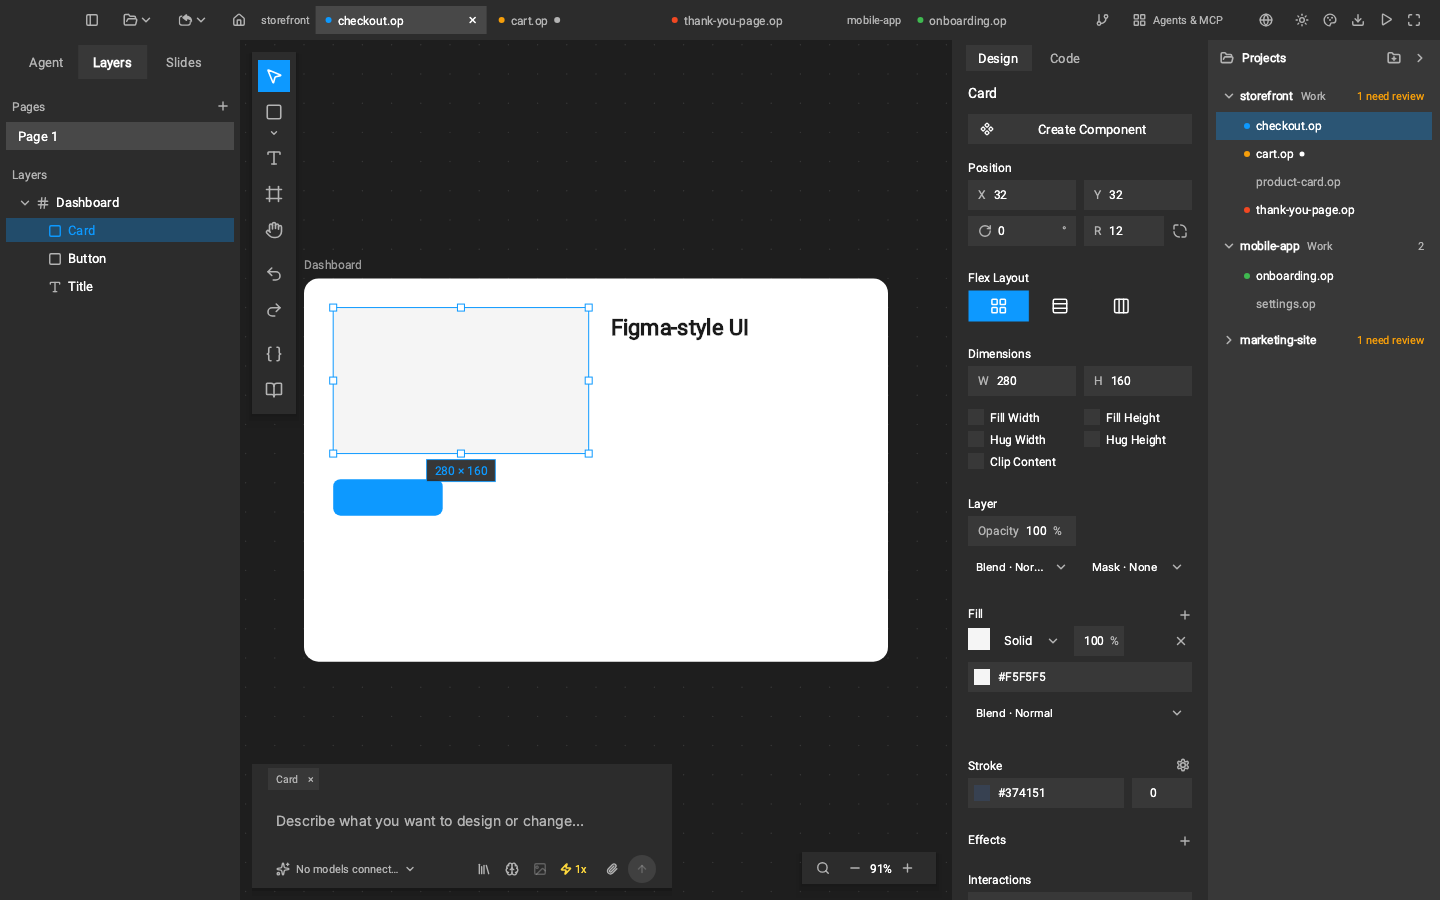
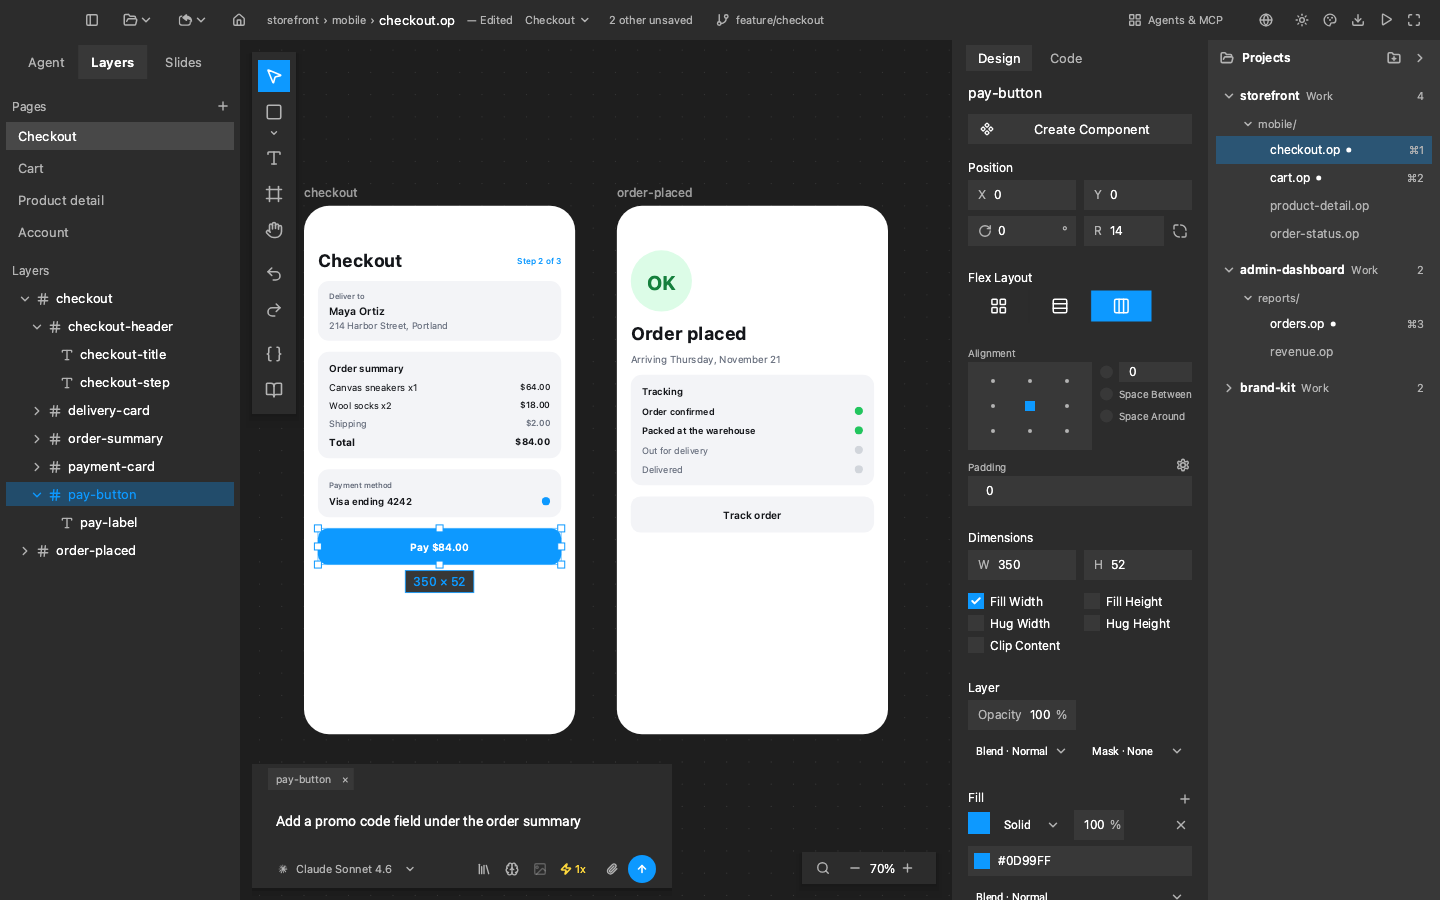
docs: refresh the README cover with the current editor
A headless render of the current UI replaces the old cover that still showed the tab strip; a proof test regenerates the scene.

diff --git a/crates/op-host-native/src/widget_host/ui3_proof_cover_tests.rs b/crates/op-host-native/src/widget_host/ui3_proof_cover_tests.rs
@@ -1,0 +1,370 @@
+//! Proof scene for the README cover: `99-cover-dark` (`OP_PROOF_DIR`).
+//!
+//! One 1440x900 dark frame of the whole editor: the Layers rail with its page
+//! list, a small mobile checkout design built from real nodes, the Design
+//! panel for a selected button, the Projects dock with open-file marks, the
+//! info bar and the floating chat composer. `scripts/generate-brand-assets.py
+//! --cover` turns the PNG into `screenshot/op-cover.png`.
+//!
+//! Windows-gated like the other tests that solve layout.
+
+#![cfg(all(test, not(target_os = "windows")))]
+
+use super::super::ui3_proof::{editor_host, render_probes, PROOF_H, PROOF_W};
+use crate::widget_host::WidgetHostNative;
+use op_editor_core::chat::{AgentProvider, ModelEntry};
+use op_editor_core::{
+    DocumentId, DocumentTabStatus, DocumentTabView, EditorState, LeftPanelTab, NodeId,
+    ProjectFileKind, ProjectFileView, ProjectView, ThemeMode,
+};
+use serde_json::{json, Value};
+
+const INK: &str = "#14161A";
+const MUTED: &str = "#6B7280";
+const SURFACE: &str = "#F3F4F7";
+const ACCENT: &str = "#0D99FF";
+const WHITE: &str = "#FFFFFF";
+
+fn solid(color: &str) -> Value {
+    json!([{ "type": "solid", "color": color }])
+}
+
+fn text(id: &str, content: &str, size: u32, weight: u32, color: &str) -> Value {
+    json!({
+        "type": "text", "id": id, "name": id, "content": content,
+        "fontSize": size, "fontWeight": weight, "fill": solid(color),
+        "width": "fit_content", "height": "fit_content"
+    })
+}
+
+/// A horizontal row with its children spread to both ends.
+fn row(id: &str, children: Vec<Value>) -> Value {
+    json!({
+        "type": "frame", "id": id, "name": id, "layout": "horizontal",
+        "width": "fill_container", "height": "fit_content",
+        "justifyContent": "space_between", "alignItems": "center",
+        "fill": [], "children": children
+    })
+}
+
+/// A rounded vertical card.
+fn card(id: &str, gap: u32, children: Vec<Value>) -> Value {
+    json!({
+        "type": "frame", "id": id, "name": id, "layout": "vertical", "gap": gap,
+        "width": "fill_container", "height": "fit_content", "padding": 16,
+        "cornerRadius": 16, "fill": solid(SURFACE), "children": children
+    })
+}
+
+fn dot(id: &str, color: &str) -> Value {
+    json!({
+        "type": "ellipse", "id": id, "name": id, "width": 12, "height": 12,
+        "fill": solid(color)
+    })
+}
+
+fn button(id: &str, label: &str, fill: Value, label_color: &str) -> Value {
+    json!({
+        "type": "frame", "id": id, "name": id, "layout": "horizontal",
+        "width": "fill_container", "height": 52, "cornerRadius": 14,
+        "justifyContent": "center", "alignItems": "center", "fill": fill,
+        "children": [text(&format!("{}-label", id.trim_end_matches("-button")), label, 16, 600, label_color)]
+    })
+}
+
+fn phone(id: &str, x: u32, children: Vec<Value>) -> Value {
+    json!({
+        "type": "frame", "id": id, "name": id, "x": x, "y": 0,
+        "width": 390, "height": 760, "layout": "vertical", "gap": 16,
+        "padding": [64, 20, 24, 20], "cornerRadius": 36, "clipContent": true,
+        "fill": solid(WHITE), "children": children
+    })
+}
+
+fn checkout_screen() -> Value {
+    let summary = card(
+        "order-summary",
+        12,
+        vec![
+            text("summary-title", "Order summary", 15, 600, INK),
+            row(
+                "line-sneakers",
+                vec![
+                    text("sneakers-name", "Canvas sneakers x1", 14, 400, INK),
+                    text("sneakers-price", "$64.00", 14, 500, INK),
+                ],
+            ),
+            row(
+                "line-socks",
+                vec![
+                    text("socks-name", "Wool socks x2", 14, 400, INK),
+                    text("socks-price", "$18.00", 14, 500, INK),
+                ],
+            ),
+            row(
+                "line-shipping",
+                vec![
+                    text("shipping-name", "Shipping", 14, 400, MUTED),
+                    text("shipping-price", "$2.00", 14, 500, MUTED),
+                ],
+            ),
+            row(
+                "line-total",
+                vec![
+                    text("total-name", "Total", 16, 700, INK),
+                    text("total-price", "$84.00", 16, 700, INK),
+                ],
+            ),
+        ],
+    );
+    let address = card(
+        "delivery-card",
+        6,
+        vec![
+            text("delivery-label", "Deliver to", 12, 500, MUTED),
+            text("delivery-name", "Maya Ortiz", 16, 600, INK),
+            text(
+                "delivery-street",
+                "214 Harbor Street, Portland",
+                14,
+                400,
+                MUTED,
+            ),
+        ],
+    );
+    let payment = card(
+        "payment-card",
+        10,
+        vec![
+            text("payment-label", "Payment method", 12, 500, MUTED),
+            row(
+                "payment-row",
+                vec![
+                    text("payment-card-name", "Visa ending 4242", 15, 600, INK),
+                    dot("payment-dot", ACCENT),
+                ],
+            ),
+        ],
+    );
+    phone(
+        "checkout",
+        0,
+        vec![
+            row(
+                "checkout-header",
+                vec![
+                    text("checkout-title", "Checkout", 28, 700, INK),
+                    text("checkout-step", "Step 2 of 3", 13, 500, ACCENT),
+                ],
+            ),
+            address,
+            summary,
+            payment,
+            button("pay-button", "Pay $84.00", solid(ACCENT), WHITE),
+        ],
+    )
+}
+
+fn confirmation_screen() -> Value {
+    let step = |n: &str, label: &str, done: bool| {
+        row(
+            &format!("step-{n}"),
+            vec![
+                text(
+                    &format!("step-{n}-label"),
+                    label,
+                    14,
+                    if done { 600 } else { 400 },
+                    if done { INK } else { MUTED },
+                ),
+                dot(
+                    &format!("step-{n}-dot"),
+                    if done { "#22C55E" } else { "#D1D5DB" },
+                ),
+            ],
+        )
+    };
+    phone(
+        "order-placed",
+        450,
+        vec![
+            json!({
+                "type": "frame", "id": "confirm-badge", "name": "confirm-badge",
+                "layout": "horizontal", "width": 88, "height": 88, "cornerRadius": 44,
+                "justifyContent": "center", "alignItems": "center",
+                "fill": solid("#DCFCE7"),
+                "children": [text("confirm-mark", "OK", 28, 700, "#15803D")]
+            }),
+            text("confirm-title", "Order placed", 28, 700, INK),
+            text(
+                "confirm-note",
+                "Arriving Thursday, November 21",
+                15,
+                400,
+                MUTED,
+            ),
+            card(
+                "tracking-card",
+                14,
+                vec![
+                    text("tracking-title", "Tracking", 15, 600, INK),
+                    step("1", "Order confirmed", true),
+                    step("2", "Packed at the warehouse", true),
+                    step("3", "Out for delivery", false),
+                    step("4", "Delivered", false),
+                ],
+            ),
+            button("track-button", "Track order", solid(SURFACE), INK),
+        ],
+    )
+}
+
+fn cover_document() -> jian_ops_schema::PenDocument {
+    let page = |id: &str, name: &str, children: Vec<Value>| json!({ "id": id, "name": name, "children": children });
+    let blank = |id: &str, title: &str| {
+        vec![json!({
+            "type": "frame", "id": id, "name": title, "x": 0, "y": 0,
+            "width": 390, "height": 844, "cornerRadius": 36, "fill": solid(WHITE),
+            "children": []
+        })]
+    };
+    let document = json!({
+        "version": "1.0.0",
+        "children": [],
+        "pages": [
+            page("page-checkout", "Checkout", vec![checkout_screen(), confirmation_screen()]),
+            page("page-cart", "Cart", blank("cart", "cart")),
+            page("page-product", "Product detail", blank("product", "product")),
+            page("page-account", "Account", blank("account", "account")),
+        ]
+    });
+    jian_ops_schema::load_str(&document.to_string())
+        .expect("cover document parses")
+        .value
+}
+
+fn tab(id: u64, label: &str, dirty: bool, active: bool) -> DocumentTabView {
+    DocumentTabView {
+        id: DocumentId(id),
+        label: label.to_string(),
+        project: String::new(),
+        dirty,
+        status: DocumentTabStatus::Idle,
+        active,
+    }
+}
+
+fn file(root: &str, folder: &str, label: &str, open: Option<u64>) -> ProjectFileView {
+    ProjectFileView {
+        path: format!("{root}/{folder}/{label}"),
+        label: label.to_string(),
+        open_id: open.map(DocumentId),
+        dirty: false,
+        status: DocumentTabStatus::Idle,
+        active: false,
+        folder: folder.to_string(),
+        kind: ProjectFileKind::Design,
+        missing: false,
+        removable: false,
+    }
+}
+
+fn project(name: &str, files: Vec<ProjectFileView>, expanded: bool) -> ProjectView {
+    ProjectView {
+        root: format!("/Users/maya/Work/{name}"),
+        name: name.to_string(),
+        files,
+        expanded,
+        ..ProjectView::default()
+    }
+}
+
+/// The projects of the cover. Open ids follow the order of the tabs below.
+fn cover_projects() -> Vec<ProjectView> {
+    let storefront_root = "/Users/maya/Work/storefront";
+    let mut checkout = file(storefront_root, "mobile", "checkout.op", Some(1));
+    checkout.active = true;
+    checkout.dirty = true;
+    let mut cart = file(storefront_root, "mobile", "cart.op", Some(2));
+    cart.dirty = true;
+    let storefront = project(
+        "storefront",
+        vec![
+            checkout,
+            cart,
+            file(storefront_root, "mobile", "product-detail.op", None),
+            file(storefront_root, "mobile", "order-status.op", None),
+        ],
+        true,
+    );
+    let admin_root = "/Users/maya/Work/admin-dashboard";
+    let mut orders = file(admin_root, "reports", "orders.op", Some(3));
+    orders.dirty = true;
+    let admin = project(
+        "admin-dashboard",
+        vec![orders, file(admin_root, "reports", "revenue.op", None)],
+        true,
+    );
+    let brand_root = "/Users/maya/Work/brand-kit";
+    let brand = project(
+        "brand-kit",
+        vec![
+            file(brand_root, "", "colors.op", None),
+            file(brand_root, "", "icons.op", None),
+        ],
+        false,
+    );
+    vec![storefront, admin, brand]
+}
+
+fn cover_host(mode: ThemeMode) -> WidgetHostNative {
+    // `editor_host` builds the host; the state is then swapped for the cover
+    // document, which resets the editor UI, so everything below is set after.
+    let mut host = editor_host(mode, None);
+    assert!(host.replace_editor_state(EditorState::from_document(cover_document())));
+    let state = host.editor_state_mut();
+    state.editor_ui.home.hide();
+    state.editor_ui.theme_mode = mode;
+    state.set_single_selection(NodeId::new("pay-button"));
+    // Fold the detail rows so the Layers rail reads top-down: the screen,
+    // its sections, then the selected button.
+    for id in [
+        "delivery-card",
+        "order-summary",
+        "payment-card",
+        "order-placed",
+    ] {
+        state.toggle_node_collapsed(&NodeId::new(id));
+    }
+    state.chat.available_models = vec![ModelEntry::new(
+        AgentProvider::ClaudeCode,
+        "claude-sonnet-4-6",
+        "Claude Sonnet 4.6",
+    )];
+    state.chat.selected_model = 0;
+    let ui = &mut state.editor_ui;
+    ui.slides_panel.tab = LeftPanelTab::Layers;
+    ui.document_tabs_supported = true;
+    ui.file_name_display = Some("checkout.op".to_string());
+    ui.document_dirty = true;
+    ui.git_panel.branch = Some("feature/checkout".to_string());
+    ui.document_tabs = vec![
+        tab(1, "checkout.op", true, true),
+        tab(2, "cart.op", true, false),
+        tab(3, "orders.op", true, false),
+    ];
+    ui.projects_panel.projects = cover_projects();
+    state
+        .chat
+        .set_input_text("Add a promo code field under the order summary");
+    host.mark_dirty();
+    host.zoom_to_fit(PROOF_W, PROOF_H);
+    host
+}
+
+#[test]
+fn ui3_proof_cover_dark() {
+    let mut host = cover_host(ThemeMode::Dark);
+    let pixels = render_probes(&mut host, "99-cover", &[(700, 450)]);
+    assert!(pixels[0] != [0, 0, 0], "the canvas painted something");
+}

diff --git a/crates/op-host-native/src/widget_host/ui3_proof_tests.rs b/crates/op-host-native/src/widget_host/ui3_proof_tests.rs
@@ -2,6 +2,8 @@
 
 #[path = "ui3_proof_chat_tests.rs"]
 mod chat;
+#[path = "ui3_proof_cover_tests.rs"]
+mod cover;
 #[path = "ui3_proof_font_download_tests.rs"]
 mod font_download;
 #[path = "ui3_proof_frame_tests.rs"]

diff --git a/README.md b/README.md
@@ -13,7 +13,7 @@
   <img src="./screenshot/op-cover.png" alt="The OpenPencil editor with the Layers panel, the canvas, the Design panel and the Projects dock" width="100%" />
 </p>
 
-<p align="center"><sub>Screenshot taken before the active-file info bar replaced the tab strip in the top bar.</sub></p>
+<p align="center"><sub>The editor in dark theme: Layers rail, canvas, Design panel, Projects dock, info bar and chat composer.</sub></p>
 
 This repository is a fork of [OpenPencil by ZSeven-W](https://github.com/ZSeven-W/openpencil) (MIT). The product name is unchanged. It is built from source and runs **local-only** (see [Status and limits](#status-and-limits)).
 
